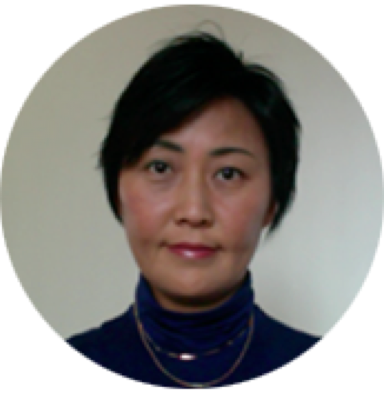
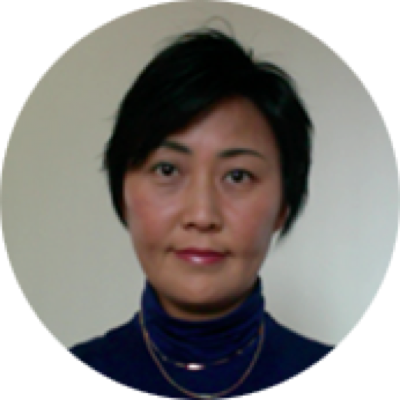
updated speaker bios and added images for shah, taylor, nagase, ishitani, hayashi

diff --git a/docs/app/app/speakers.component.ts b/docs/app/app/speakers.component.ts
@@ -53,7 +53,7 @@ import { Component, OnInit } from '@angular/core';
           <div class="img-wrapper"><img class="speaker-img" src="../assets/SilvesterC.png" alt="Noriko Silvester" /></div>
           <div class="speaker-bio-wrapper">
             <h2>Noriko Silvester</h2>
-            <p>Akiko leads APAC Google Partner Plex where Google helps our clients and partners develop their innovative visions, strategies, and digitize their business. She joined Google in April 2013 and she led and expanded Google’s digital marketing business. Prior to Google, she was President/Head of Asia Pacific in Bloomberg K.K. in Japan. <br><br>Akiko has a BA in Political Science and Economics from Waseda University and an MBA from The University of Chicago. She completed the Advanced Management Program at Harvard Business School. She serves for Kirin Company, Limited as a Director of the Board (outside) from April, 2016. She is a proud mother of two young boys.</p>
+            <p>bio</p>
           </div>
         </div>
 
@@ -61,7 +61,7 @@ import { Component, OnInit } from '@angular/core';
           <div class="img-wrapper"><img class="speaker-img" src="../assets/NagaseC.png" alt="Nobuko Nagase" /></div>
           <div class="speaker-bio-wrapper">
             <h2>Nobuko Nagase</h2>
-            <p>Sachin N. Shah received a B.S. degree in electrical engineering and a master’s degree in technology and business management from Stevens Institute of Technology in New Jersey. Shah is Executive Vice President for MetLife. He is the Chairman, President and Chief Executive Officer of MetLife Insurance K.K. He is also a member of the Board of Directors and Representative Statutory Executive Officer of MetLife Insurance K.K. Before his assignments in Japan, Shah was the global leader for the integration of Alico into MetLife until closing of the transaction in November 2010. Shah serves on the board of the US Japan Business Council and on the Board of Governors for the American Chamber of Commerce in Japan.</p>
+            <p>bio</p>
           </div>
         </div>
 
@@ -105,7 +105,7 @@ import { Component, OnInit } from '@angular/core';
           <div class="img-wrapper"><img class="speaker-img" src="../assets/RichC.png" alt="Motoko Rich" /></div>
           <div class="speaker-bio-wrapper">
             <h2>Motoko Rich</h2>
-            <p>Akiko leads APAC Google Partner Plex where Google helps our clients and partners develop their innovative visions, strategies, and digitize their business. She joined Google in April 2013 and she led and expanded Google’s digital marketing business. Prior to Google, she was President/Head of Asia Pacific in Bloomberg K.K. in Japan. <br><br>Akiko has a BA in Political Science and Economics from Waseda University and an MBA from The University of Chicago. She completed the Advanced Management Program at Harvard Business School. She serves for Kirin Company, Limited as a Director of the Board (outside) from April, 2016. She is a proud mother of two young boys.</p>
+            <p>Motoko Rich is Tokyo Bureau Chief for <i>The New York Times</i>, where she writes about politics, national security, foreign policy, women’s issues, the challenges of an aging society, and culture.  She came to Japan in August, after nearly four years writing about K-12 education for the <i>Times</i>’ national desk. She focused primarily on public schools and the challenges they face in testing, demographic change, race relations, preparing and evaluating teachers, school discipline, technology and government policy. Before coming to <i>The Times</i>, Ms. Rich was a reporter at <i>The Wall Street Journal</i> and the <i>Financial Times</i> in London. Born in Los Angeles and raised in Tokyo and Petaluma, Calif., Ms. Rich graduated from Yale in 1991. She also received a degree in English from Cambridge University in England. She currently lives with her husband and two children in Tokyo.</p>
           </div>
         </div>
 
